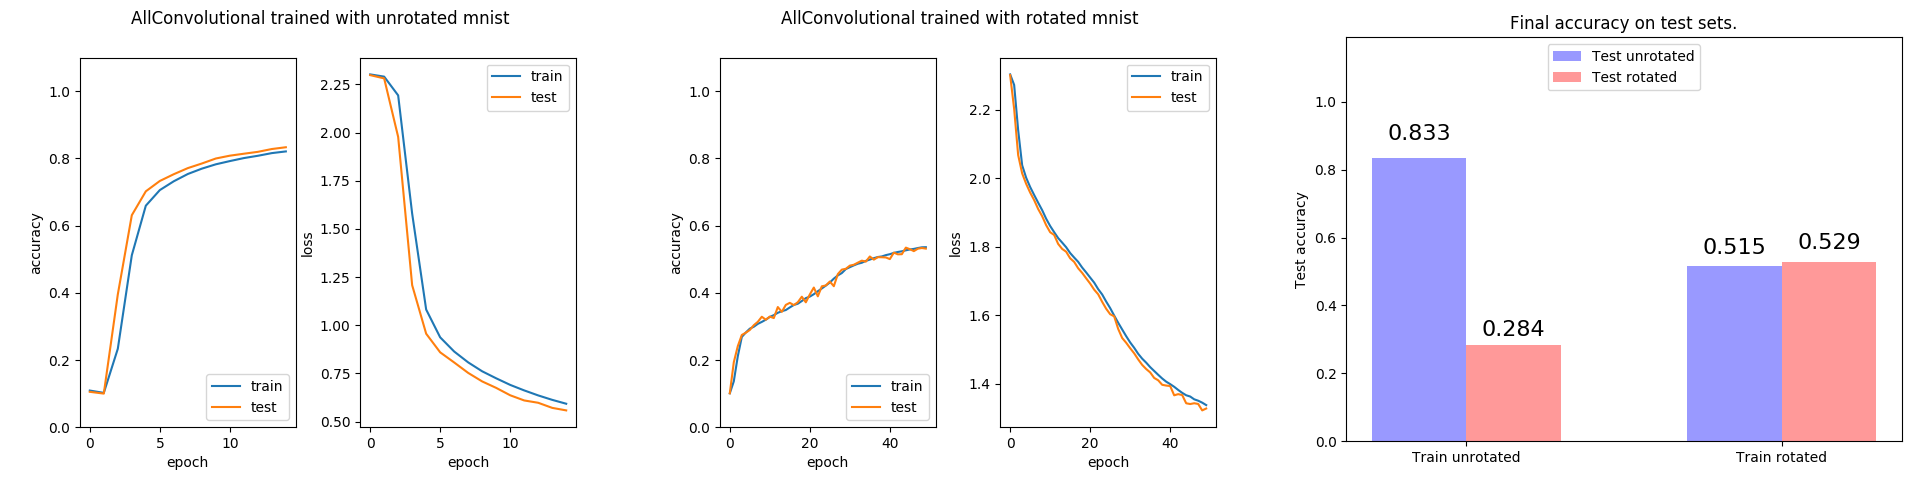
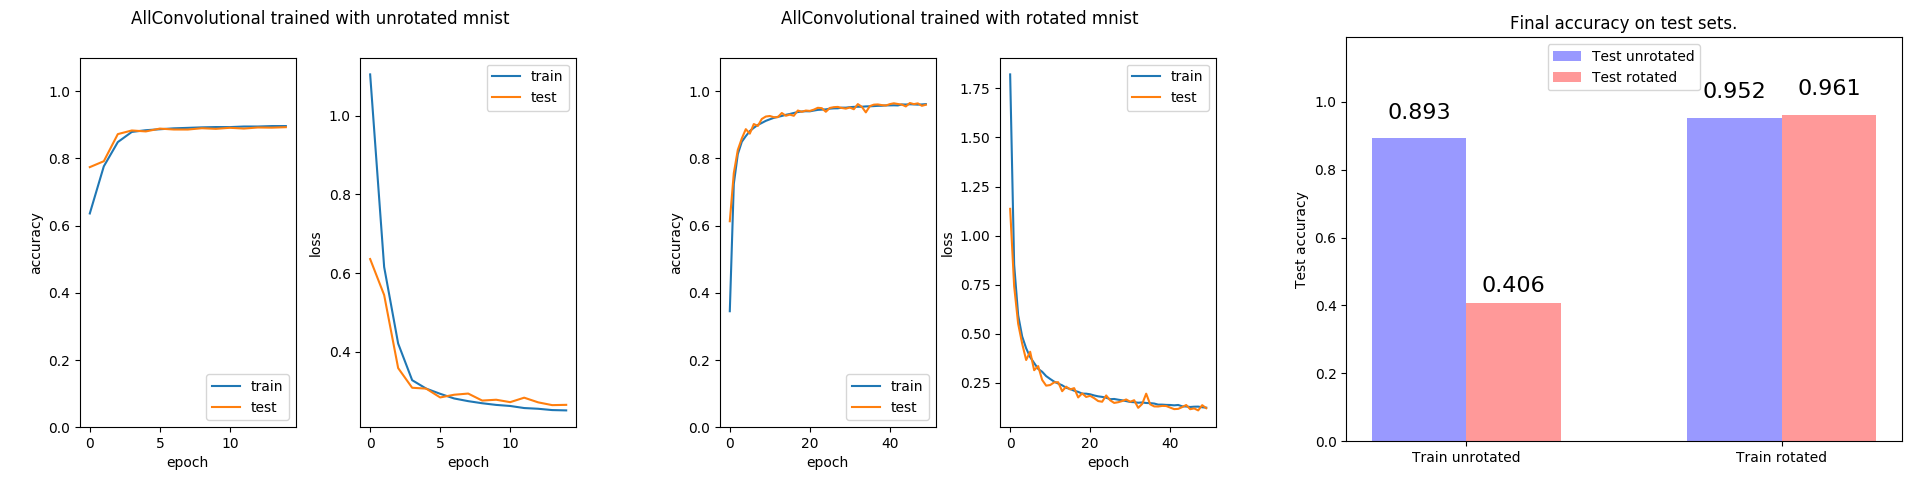
implemented intermediate results for resnet

diff --git a/rotation/pytorch/experiment/models.py b/rotation/pytorch/experiment/models.py
@@ -11,7 +11,7 @@ class ExperimentModel:
 
 def get_model_names():
     return [pytorch_models.SimpleConv.__name__
-        ,pytorch_models.AllConv.__name__
+        # ,pytorch_models.AllConv.__name__
         ,pytorch_models.AllConvolutional.__name__
         ,pytorch_models.VGGLike.__name__
         ,pytorch_models.ResNet.__name__]
@@ -40,20 +40,20 @@ def get_model(name,dataset,use_cuda):
         filters = {"mnist": 16, "mnist_rot": 32, "cifar10": 64, "fashion_mnist": 32, "lsa16": 16}
         model = pytorch_models.AllConvolutional(dataset.input_shape, dataset.num_classes,
                                                 filters=filters[dataset.name])
-        optimizer=setup_model(model,0.00001,1e-13)
+        optimizer=setup_model(model,1e-3,1e-13)
         rotated_model = pytorch_models.AllConvolutional(dataset.input_shape, dataset.num_classes,
                                                         filters=filters[dataset.name])
-        rotated_optimizer = setup_model(rotated_model, 0.00001, 1e-13)
+        rotated_optimizer = setup_model(rotated_model, 1e-3, 1e-13)
 
         return model, optimizer, rotated_model, rotated_optimizer
     def all_conv():
         filters = {"mnist": 16, "mnist_rot": 32, "cifar10": 64, "fashion_mnist": 32, "lsa16": 16}
         model = pytorch_models.AllConv(dataset.input_shape, dataset.num_classes,
                                                 filters=filters[dataset.name])
-        optimizer=setup_model(model,0.00001,1e-13)
+        optimizer=setup_model(model,1e-3,1e-13)
         rotated_model = pytorch_models.AllConvolutional(dataset.input_shape, dataset.num_classes,
                                                         filters=filters[dataset.name])
-        rotated_optimizer = setup_model(rotated_model, 0.00001, 1e-13)
+        rotated_optimizer = setup_model(rotated_model, 1e-3, 1e-13)
 
         return model, optimizer, rotated_model, rotated_optimizer
 
@@ -84,7 +84,7 @@ def get_model(name,dataset,use_cuda):
 
     models = {pytorch_models.SimpleConv.__name__: simple_conv,
               pytorch_models.AllConvolutional.__name__: all_convolutional,
-              pytorch_models.AllConv.__name__: all_conv,
+              # pytorch_models.AllConv.__name__: all_conv,
               pytorch_models.VGGLike.__name__: vgglike,
               pytorch_models.ResNet.__name__: resnet,
               }

diff --git a/rotation/pytorch/model/resnet.py b/rotation/pytorch/model/resnet.py
@@ -46,7 +46,7 @@ class BasicBlock(nn.Module):
         outputs.append(out)
         out = F.relu(out)
         outputs.append(out)
-        return out
+        return out,outputs
     def n_intermediates(self):
         return len(self.intermediates_names())
     def intermediates_names(self):
@@ -154,31 +154,46 @@ class ResNet(nn.Module):
         outputs.append(x)
         x = F.relu(self.bn1(x))
         outputs.append(x)
+        # print(x.shape)
         x,intermediates = self.layer_intermediates(self.layer1,x)
         outputs+=intermediates
-        x,intermediates = self.layer_intermediates(self.layer1,x)
+        # print(x.shape)
+        x,intermediates = self.layer_intermediates(self.layer2,x)
         outputs += intermediates
-        x, intermediates = self.layer_intermediates(self.layer1,x)
+        # print(x.shape)
+        x, intermediates = self.layer_intermediates(self.layer3,x)
         outputs += intermediates
-        x, intermediates = self.layer_intermediates(self.layer1,x)
+        # print(x.shape)
+        x, intermediates = self.layer_intermediates(self.layer4,x)
         outputs += intermediates
+        # print(x.shape)
         x = F.avg_pool2d(x, 4)
+        # print(x.shape)
         outputs.append(x)
         x = x.view(x.size(0), -1)
+        # print(x.shape)
         x = self.linear(x)
         outputs.append(x)
         x = F.log_softmax(x, dim=1)
         outputs.append(x)
-        return x
+        return x,outputs
+    def layer_intermediates(self,layer,x):
+        outputs=[]
+        for block in layer:
+            x,intermediates=block.forward_intermediates(x)
+            outputs+=intermediates
+        # print(outputs)
+        return x,outputs
 
     def n_intermediates(self):
         return len(self.intermediates_names())
     def intermediates_names(self):
         names=["c0","c0act"]
         for i,l in enumerate([self.layer1,self.layer2,self.layer3,self.layer4]):
-            l_names=[f"l{i}_{n}" for n in l.intermediates_names()]
-            names.extend(l_names)
-        names+=["ap","fc0","fc0act"]
+            for j,block in enumerate(l):
+                l_names=[f"l{i}_b{j}_{n}" for n in block.intermediates_names()]
+                names.extend(l_names)
+        names+=["avgp","fc0","fc0act"]
         return names
 
 def ResNet18(input_shape,num_classes):

diff --git a/rotation/pytorch/experiment/rotation.py b/rotation/pytorch/experiment/rotation.py
@@ -169,6 +169,8 @@ MODEL_SAVE_FILENAME="models.pt"
 
 def save_models(dataset,model,rotated_model,scores,config):
     model_folderpath = experiment_model_path(model.name, dataset.name)
+    homedir = os.path.expanduser("~")
+    model_folderpath = os.path.join(homedir,model_folderpath)
     if not os.path.exists(model_folderpath):
         os.makedirs(model_folderpath)
     filepath=os.path.join(model_folderpath,MODEL_SAVE_FILENAME)
@@ -181,6 +183,7 @@ from pytorch.experiment import models
 
 def load_models(dataset,model_name,use_cuda):
     models_state=load_models_state(dataset.name,model_name)
+
     model,optimizer,rotated_model,rotated_optimizer=models.get_model(model_name,dataset,use_cuda)
     model.load_state_dict(models_state["unrotated"])
     rotated_model.load_state_dict(models_state["rotated"])
@@ -190,7 +193,8 @@ def load_models(dataset,model_name,use_cuda):
 
 def load_models_state(dataset_name,model_name):
     model_folderpath = experiment_model_path(model_name, dataset_name)
-    model_filepath=os.path.join(model_folderpath,MODEL_SAVE_FILENAME)
+    homedir = os.path.expanduser("~")
+    model_filepath=os.path.join(homedir,model_folderpath,MODEL_SAVE_FILENAME)
     if not os.path.exists(model_filepath):
         message=f"The model |{model_name}| was not trained on dataset " \
                 f"|{dataset_name}| ({model_filepath} does not exist)." \

diff --git a/rotation/experiment_rotation.py b/rotation/experiment_rotation.py
@@ -24,10 +24,11 @@ else:
 
 
 
-verbose=False
+verbose=True
+
 dataset = datasets.get_dataset(dataset_name)
 if verbose:
-    print(f"Training with dataset {dataset_name}.")
+    print(f"Experimenting with dataset {dataset_name}.")
     print(dataset.summary())
 
 # MODEL
@@ -46,7 +47,8 @@ batch_size = 64
 epochs,rotated_epochs=models.get_epochs(dataset.name,model_name)
 config=rotation.TrainRotatedConfig(batch_size=batch_size,
                        epochs=epochs,rotated_epochs=rotated_epochs,
-                       pre_rotated_epochs=pre_rotated_epochs, optimizer=optimizer,rotated_optimizer=rotated_optimizer,
+                       pre_rotated_epochs=pre_rotated_epochs,
+                        optimizer=optimizer,rotated_optimizer=rotated_optimizer,
                       use_cuda=use_cuda)
 
 scores=rotation.run(config,model,rotated_model,dataset,plot_accuracy=True,save_plots=True)

diff --git a/rotation/experiment_variance.py b/rotation/experiment_variance.py
@@ -36,7 +36,7 @@ if verbose:
 from pytorch.experiment import rotation
 model,rotated_model,scores,config=rotation.load_models(dataset,model_name,use_cuda)
 print(model.intermediates_names())
-raise ValueError()
+
 
 if verbose:
     print("### ", model)
